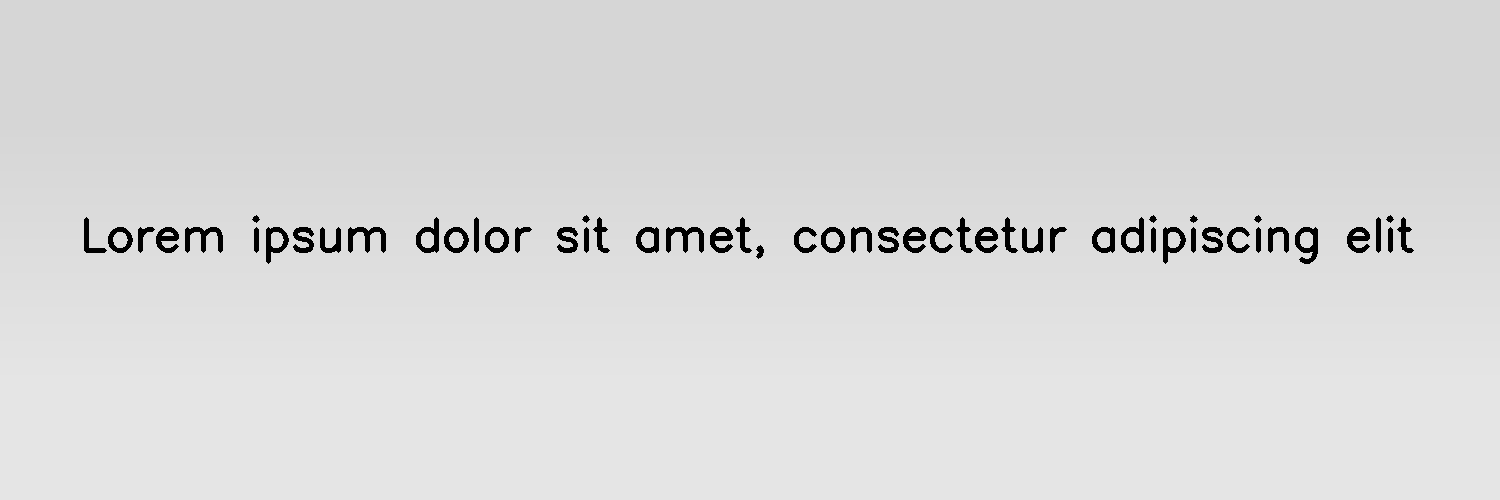
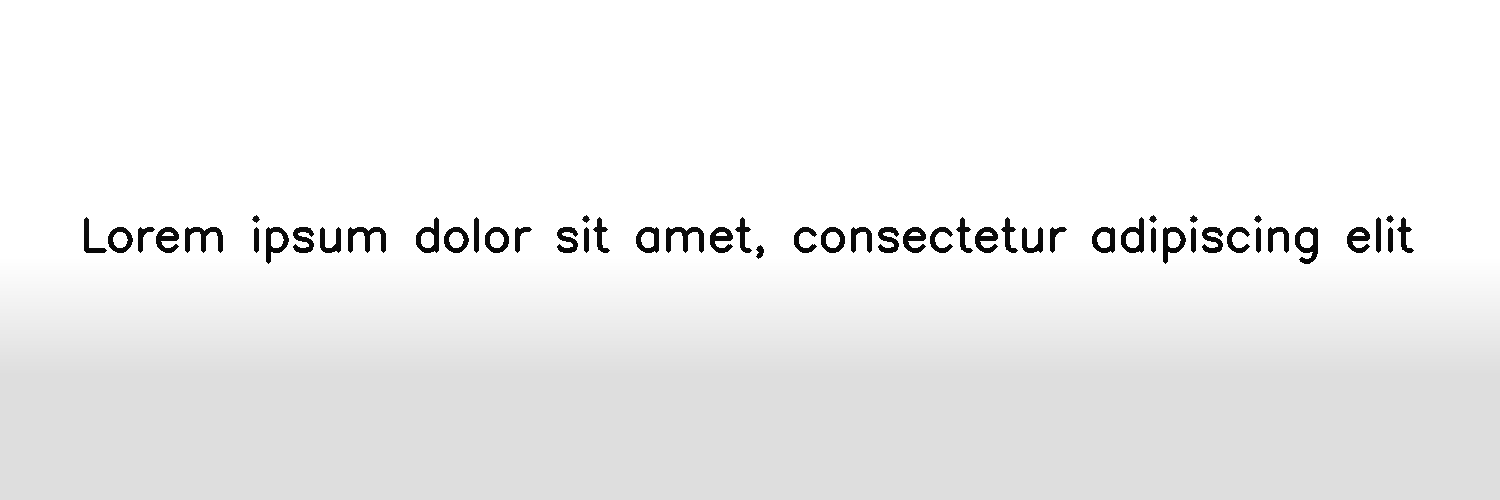
Updated PatternGenerator.
1. Added feature to change color in PatternGenerator.
2. Updated example image for the NoiseTexturize's doc image.

diff --git a/augraphy/augmentations/quasicrystal.py b/augraphy/augmentations/quasicrystal.py
@@ -23,7 +23,6 @@ References:
 
 """
 import math
-import os
 import random
 import warnings
 
@@ -39,34 +38,46 @@ warnings.filterwarnings("ignore")
 
 
 class PatternGenerator(Augmentation):
-    def __init__(self, imgx=512, imgy=512, n_rotation_range=(10, 15), p=1.0):
-        """
-        In this implementation we take a geometric plane and every point in the plane is shaded according
-        to its position,(x,y) coordinate. We take the pattern and perform a bitwise not operation so that it can
-        be added as an background to an image.This code is a python implementation of a QuasiPattern Distortion augmentation techniques
-        using PIL and the OpenCV libraries. This augmentation creates a new pattern image and superimposes it onto an input image.
+    """In this implementation we take a geometric plane and every point in the plane is shaded according
+    to its position,(x,y) coordinate. We take the pattern and perform a bitwise not operation so that it can
+    be added as an background to an image.This code is a python implementation of a QuasiPattern Distortion augmentation techniques
+    using PIL and the OpenCV libraries. This augmentation creates a new pattern image and superimposes it onto an input image.
+    To make the pattern more prominent
+    a. Increase the 'frequency' parameter: Increasing the frequency of the pattern will the it tightly populated and more prominent.
+    b. Decrease the 'n_rotation' parameter: Decreasing the number of rotations will make the pattern less symmetrical.
 
-        To make the pattern more prominent
-        a. Increase the 'frequency' parameter: Increasing the frequency of the pattern will the it tightly populated and more prominent.
-        b. Decrease the 'n_rotation' parameter: Decreasing the number of rotations will make the pattern less symmetrical.
+    :param imgx: width of the pattern image. default is 512
+    :type imgx: int, optional
+    :param imgy: height of the pattern image, default is 512
+    :type imgy: int, optional
+    :param n_rotation: is the number of rotations applied to the pattern, default value lies
+                       between 10 and 15.
+    :type n_rotation: tuple (int) , optional
+    :param color: Color of the pattern in BGR format. Use "random" for random color effect.
+    :type color: tuple (int), optional
+    :param alpha_range: Tuple of floats determining the alpha value of the patterns.
+    :type alpha_range: tuple (float), optional
+    """
 
-        :param imgx: width of the pattern image. default is 512
-        :type imgx: int
-        :param imgy: height of the pattern image, default is 512
-        :type imgy: int
-        :param n_rotation: is the number of rotations applied to the pattern, default value lies
-                           between 10 and 15.
-        :type n_rotation: tuple (int)
-
-
-        """
+    def __init__(
+        self,
+        imgx=512,
+        imgy=512,
+        n_rotation_range=(10, 15),
+        color="random",
+        alpha_range=(0.25, 0.5),
+        p=1.0,
+    ):
+        """Constructor method"""
         super().__init__(p=p)
         self.imgx = imgx  # width of the image
         self.imgy = imgy  # hieght of the image
         self.n_rotation_range = n_rotation_range  # number of rotation to be applied to the pattern
+        self.color = color
+        self.alpha_range = alpha_range
 
     def __repr__(self):
-        # return f"QuasiPattern Distortion: width = {self.imgx} , height = {self.imgy}, n_rotation = {self.n_rotation}"
+        # return f"QuasiPattern Distortion: width = {self.imgx} , height = {self.imgy}, n_rotation = {self.n_rotation}, color = {self.color}, alpha_range = {self.alpha_range}"
         return f"QuasiPattern Distortion:  n_rotation_range = {self.n_rotation_range}"
 
     @staticmethod
@@ -97,6 +108,7 @@ class PatternGenerator(Augmentation):
         if force or self.should_run():
             result = image.copy()
             h, w = result.shape[:2]
+
             self.n_rotation = random.randint(self.n_rotation_range[0], self.n_rotation_range[1])
             pattern_image = np.zeros((self.imgy, self.imgx, 3), dtype=np.uint8)
             frequency = random.random() * 100 + 18  # determines the frequency of pattern
@@ -109,6 +121,19 @@ class PatternGenerator(Augmentation):
                 invert = cv2.cvtColor(invert, cv2.COLOR_RGB2GRAY)
             elif len(image.shape) == 3 and image.shape[2] == 1:
                 invert = cv2.cvtColor(invert, cv2.COLOR_RGB2GRAY)
-            sw = PatternMaker(alpha=0.15)
+            sw = PatternMaker(alpha=random.uniform(self.alpha_range[0], self.alpha_range[1]))
+
+            # apply color into pattern
+            if self.color == "random":
+                color = (random.randint(0, 255), random.randint(0, 255), random.randint(0, 255))
+            else:
+                color = self.color
+            if len(invert.shape) > 2:
+                color_mask = np.full_like(invert, fill_value=color, dtype="uint8")
+            else:
+                color_mask = np.full_like(invert, fill_value=np.mean(color), dtype="uint8")
+            invert = cv2.multiply(invert, color_mask, scale=1 / 255)
+
+            # overlay pattern into image
             result = sw.superimpose(result, invert)
             return result

diff --git a/augraphy/augmentations/noisetexturize.py b/augraphy/augmentations/noisetexturize.py
@@ -7,7 +7,7 @@ from augraphy.base.augmentation import Augmentation
 
 
 class NoiseTexturize(Augmentation):
-    """Creates a random noise based texture pattern to emulate paper textures.
+    """Creates a random noise pattern to emulate paper textures.
     Consequently applies noise patterns to the original image from big to small.
 
     :param sigma_range: Defines bounds of noise fluctuations.

diff --git a/doc/source/augmentations/noisetexturize.rst b/doc/source/augmentations/noisetexturize.rst
@@ -10,7 +10,7 @@ NoiseTexturize
 --------
 Overview
 --------
-The Noise Texturize augmentation creates a random noise based texture pattern to emulate paper textures.
+The Noise Texturize augmentation creates a random noise pattern to emulate paper textures.
 
 Initially, a clean image with single line of text is created.
 
@@ -45,15 +45,15 @@ Clean image:
 ---------
 Example 1
 ---------
-In this example, a NoiseTexturize augmentation instance is initialized and the sigma value that define noise fluctuatiosn is set in between 12 and 15 (12, 15).
-The noise turbulence range is set in between 3 and 5.
+In this example, a NoiseTexturize augmentation instance is initialized and the sigma value that define noise fluctuatiosn is set in between 3 and 10 (3, 10).
+The noise turbulence range is set in between 2 and 5.
 
 Code example:
 
 ::
 
-    noise_texturize = NoiseTexturize(sigma_range=(12, 15),
-                                     turbulence_range=(3, 5),
+    noise_texturize = NoiseTexturize(sigma_range=(3, 10),
+                                     turbulence_range=(2, 5),
                                      )
 
     img_noise_texturize = noise_texturize(image)
